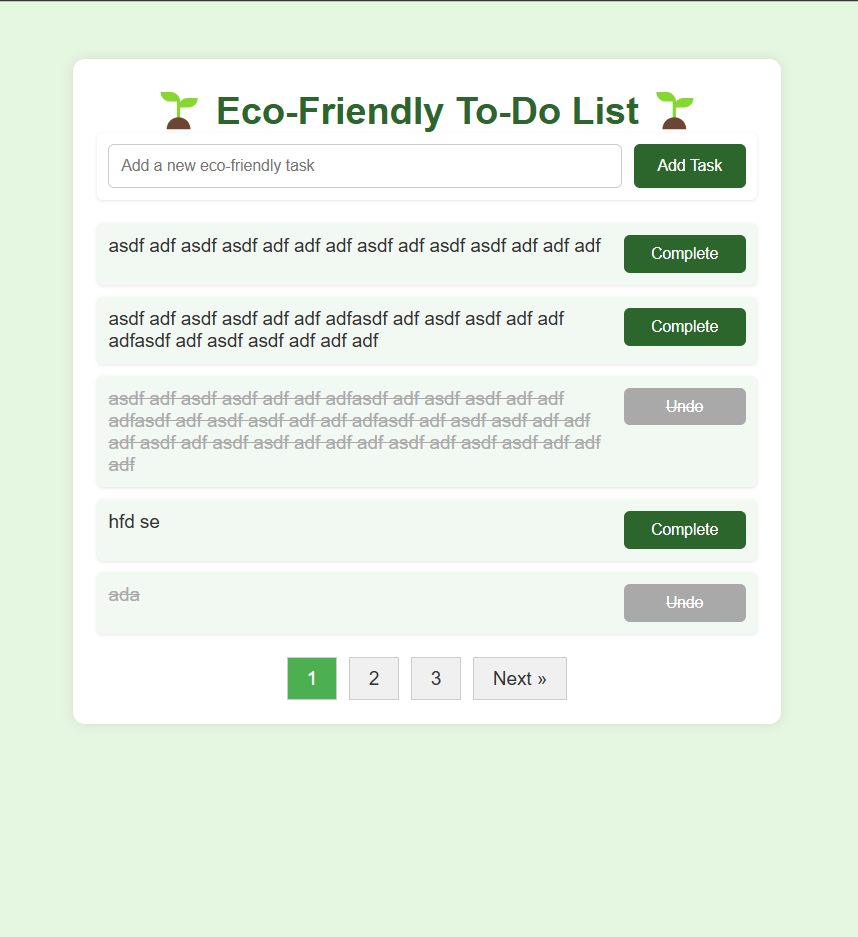
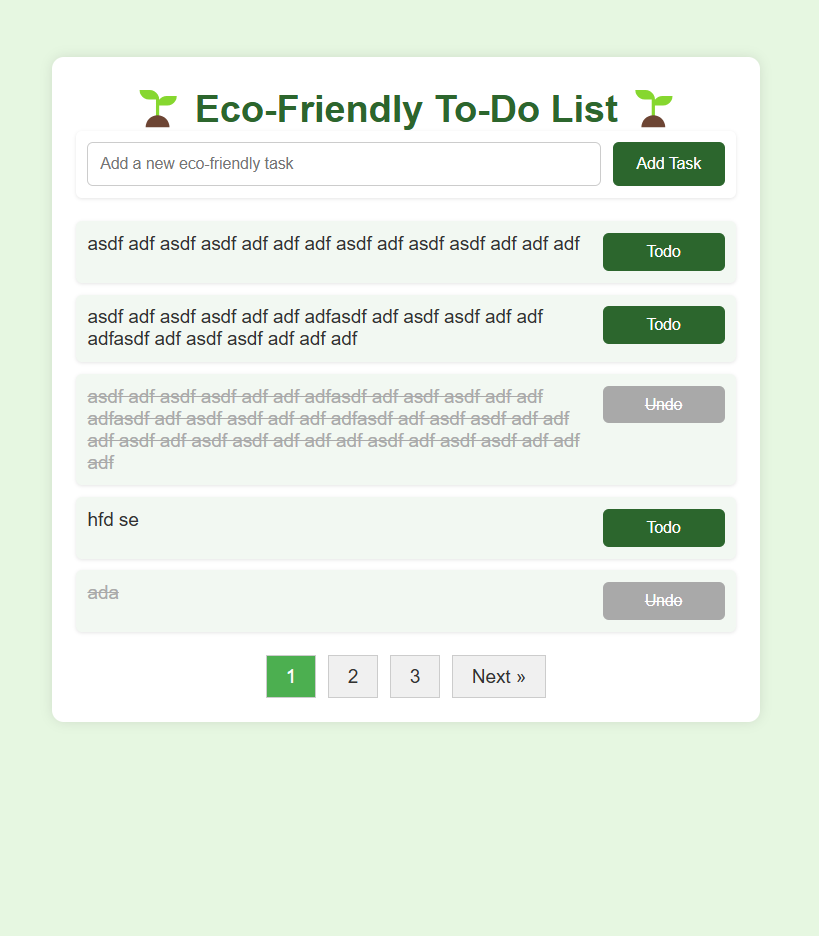
[chore: 0.0.1] .|. Update 'docs/img' and rename label todo item button from 'complete' to 'todo'

diff --git a/index.php b/index.php
@@ -46,10 +46,14 @@ $status = $data['status'];
 
         <ul class="task-list">
             <?php foreach ($tasks as $task): ?>
-                <?php $taskStatus = $task['completed'] ? 'completed' : ''; ?>
+                <?php
+                $taskStatus = $task['completed'] ? 'completed' : '';
+                $btnLblTaskStatus = $task['completed'] ? 'Undo' : 'Todo';
+                ?>
                 <li class="">
                     <form method="POST" class="task-item">
-                        <!-- <textarea class="lbl-task-item <?php //echo $task['completed'] ? 'completed' : ''; ?>" readonly rows="8" > -->
+                        <!-- <textarea class="lbl-task-item <?php //echo $task['completed'] ? 'completed' : ''; 
+                                                            ?>" readonly rows="8" > -->
                         <div class="lbl-task-item <?= $taskStatus ?>">
                             <?= htmlspecialchars($task['title']) ?>
                         </div>
@@ -59,7 +63,7 @@ $status = $data['status'];
                             type="submit"
                             name="<?php echo $task['completed'] ? 'undo' : 'complete'; ?>"
                             value="<?php echo $task['id']; ?>">
-                            <?php echo $task['completed'] ? 'Undo' : 'Complete'; ?>
+                            <?= $btnLblTaskStatus ?>
                         </button>
                     </form>
                 </li>
